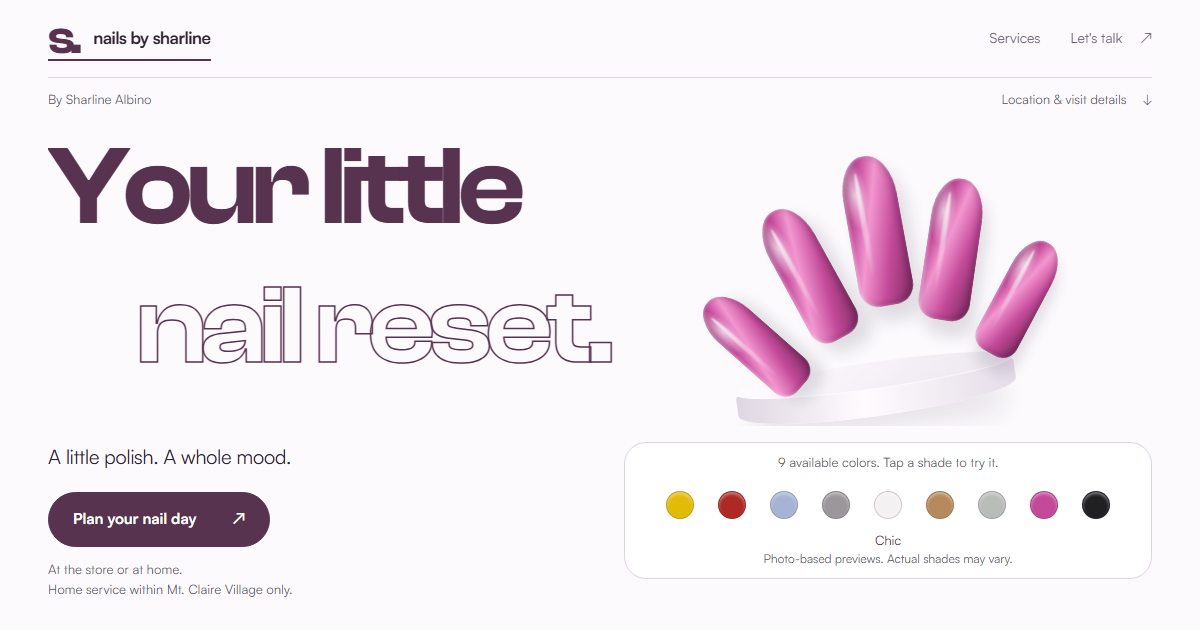
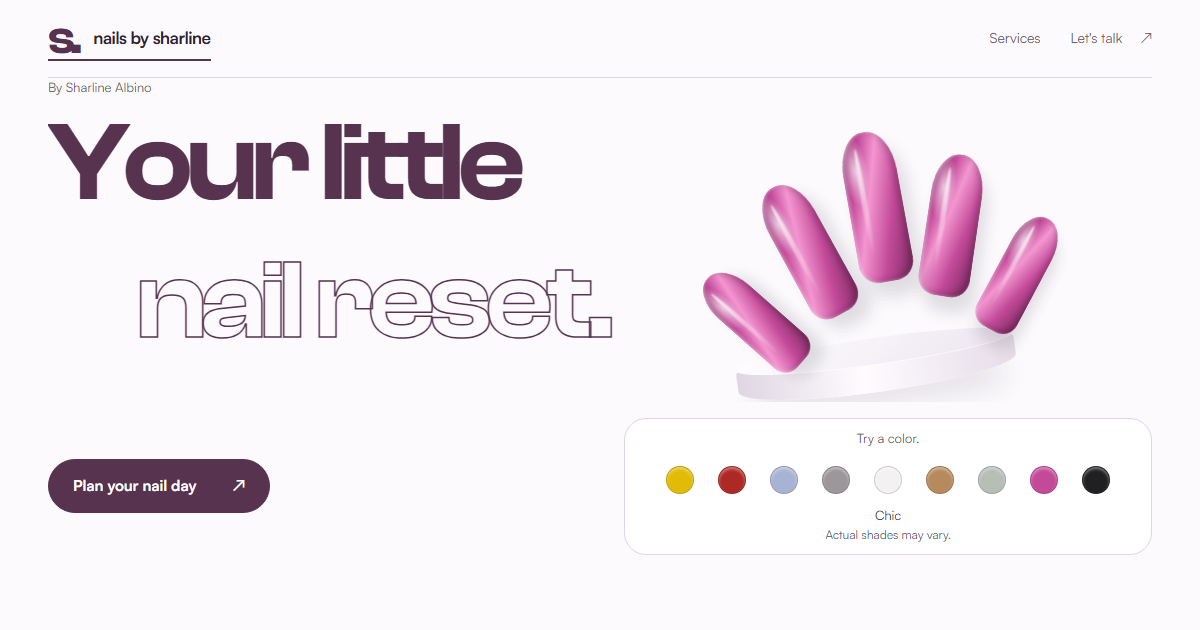
Simplify website and A4 poster with minimal branded content

diff --git a/index.html b/index.html
@@ -10,8 +10,8 @@
   <meta property="og:type" content="website">
   <meta property="og:site_name" content="Nails by Sharline">
   <meta property="og:url" content="https://nails-by-sharline.vercel.app/">
-  <meta property="og:image" content="https://nails-by-sharline.vercel.app/assets/hero-preview-6a72a41951.png">
-  <meta property="og:image:secure_url" content="https://nails-by-sharline.vercel.app/assets/hero-preview-6a72a41951.png">
+  <meta property="og:image" content="https://nails-by-sharline.vercel.app/assets/hero-preview-027e0a691b.png">
+  <meta property="og:image:secure_url" content="https://nails-by-sharline.vercel.app/assets/hero-preview-027e0a691b.png">
   <meta property="og:image:type" content="image/png">
   <meta property="og:image:width" content="1200">
   <meta property="og:image:height" content="630">
@@ -19,7 +19,7 @@
   <meta name="twitter:card" content="summary_large_image">
   <meta name="twitter:title" content="Nails by Sharline | Your little nail reset.">
   <meta name="twitter:description" content="Nail services at Generoso Sari-Sari Store, Phase 2, Mt. Claire Village. Home service within Mt. Claire Village only.">
-  <meta name="twitter:image" content="https://nails-by-sharline.vercel.app/assets/hero-preview-6a72a41951.png">
+  <meta name="twitter:image" content="https://nails-by-sharline.vercel.app/assets/hero-preview-027e0a691b.png">
   <link rel="canonical" href="https://nails-by-sharline.vercel.app/">
   <title>Nails by Sharline | Nail services</title>
   <link rel="icon" href="./favicon.svg" type="image/svg+xml">
@@ -35,7 +35,7 @@
   </header>
   <main id="main">
     <section class="hero wrap" id="home" aria-labelledby="hero-title">
-      <div class="hero-top"><p>By Sharline Albino</p><a href="#contact">Location &amp; visit details <span aria-hidden="true">↓</span></a></div>
+      <div class="hero-top"><p>By Sharline Albino</p></div>
       <div class="hero-composition">
         <h1 id="hero-title"><span>Your little</span><span class="outline-title">nail reset.</span></h1>
         <div class="sculpture hero-colors settled" aria-hidden="true">
@@ -46,9 +46,9 @@
 
       </div>
       <div class="hero-bottom">
-        <div class="hero-copy"><p class="lead">A little polish. A whole mood.</p><a class="button" href="#contact">Plan your nail day <span aria-hidden="true">↗</span></a><p class="home-note">At the store or at home.<br>Home service within Mt. Claire Village only.</p></div>
+        <div class="hero-copy"><a class="button" href="#contact">Plan your nail day <span aria-hidden="true">↗</span></a></div>
         <div class="studio">        <div class="hero-palette" id="colors">
-          <p class="palette-intro">9 available colors. Tap a shade to try it.</p>
+          <p class="palette-intro">Try a color.</p>
           <div class="hero-swatches" role="group" aria-label="Available nail colors">
             <button type="button" data-color="Banana boat" aria-label="Preview Banana boat" title="Banana boat" aria-pressed="false"><span aria-hidden="true" class="color-dot"></span></button>
             <button type="button" data-color="Lucky red" aria-label="Preview Lucky red" title="Lucky red" aria-pressed="false"><span aria-hidden="true" class="color-dot"></span></button>
@@ -66,12 +66,12 @@
           <span id="hero-color-name">Chic</span>
           <button id="color-playback" type="button" aria-label="Pause automatic color preview">Pause colors</button>
         </div>
-        <p class="hero-shade-note">Photo-based previews. Actual shades may vary.</p>
+        <p class="hero-shade-note">Actual shades may vary.</p>
 </div>
       </div>
     </section>
     <section class="services wrap" id="services" aria-labelledby="services-title">
-      <div class="section-heading"><h2 id="services-title">Little details.<br>Lovely days.</h2><p>Pick your nail-day ritual.<br>Simple services, clear prices.</p></div>
+      <div class="section-heading"><h2 id="services-title">Services</h2></div>
       <div class="service-list">
         <a class="service" href="#contact" data-service="Manicure"><span class="service-symbol" aria-hidden="true">✧</span><div><h3>Manicure</h3></div><span class="price">₱100</span><span class="service-arrow" aria-hidden="true">↗</span></a>
         <a class="service" href="#contact" data-service="Pedicure"><span class="service-symbol" aria-hidden="true">◡</span><div><h3>Pedicure</h3></div><span class="price">₱100</span><span class="service-arrow" aria-hidden="true">↗</span></a>
@@ -82,11 +82,11 @@
 
     </section>
     <section class="contact wrap" id="contact" aria-labelledby="contact-title">
-      <div class="contact-copy"><p class="contact-intro">Your next little reset</p><h2 id="contact-title">Let’s make it<br>a nail day.</h2><p>Visit Sharline at <strong>Generoso Sari-Sari Store</strong>,<br>Phase 2, Mt. Claire Village.</p><p><strong>Prefer to stay home?</strong><br>Home service within Mt. Claire Village only.</p><a class="facebook-contact" href="https://www.facebook.com/sharlinemae.albino.71" target="_blank" rel="noopener noreferrer">Sharline Albino (Camille) on Facebook <span aria-hidden="true">↗</span></a><p class="preferred-contact">Facebook is the preferred way to reach Sharline.</p></div>
-      <div class="booking"><h3>Plan your nail day</h3><label for="service-select">Service</label><select id="service-select"><option value="Manicure">Manicure · ₱100</option><option value="Pedicure">Pedicure · ₱100</option><option value="Foot Spa">Foot spa · ₱250</option><option value="Foot Spa + Pedicure">Foot spa + pedicure · ₱300</option><option value="Manicure + Pedicure + Foot Spa">All three · ₱400</option></select><p class="booking-note">All three includes manicure, pedicure, and foot spa.</p><select id="color-select" hidden aria-hidden="true" tabindex="-1"><option value="">Help me choose</option><option>Banana boat</option><option>Lucky red</option><option>Blue suede</option><option>Ashley</option><option>White satin</option><option>Touch of tan</option><option>Almond</option><option>Chic</option><option>Pure black</option></select><fieldset class="booking-colors"><legend>Color preference</legend><div class="booking-shades"><label class="shade-choice help-choice"><input type="radio" name="color-preference" value="" checked><span class="choice-face"><span>Help me choose</span></span></label><label class="shade-choice"><input type="radio" name="color-preference" value="Banana boat" data-color-choice="Banana boat"><span class="choice-face"><span class="color-dot" aria-hidden="true"></span><span>Banana boat</span></span></label><label class="shade-choice"><input type="radio" name="color-preference" value="Lucky red" data-color-choice="Lucky red"><span class="choice-face"><span class="color-dot" aria-hidden="true"></span><span>Lucky red</span></span></label><label class="shade-choice"><input type="radio" name="color-preference" value="Blue suede" data-color-choice="Blue suede"><span class="choice-face"><span class="color-dot" aria-hidden="true"></span><span>Blue suede</span></span></label><label class="shade-choice"><input type="radio" name="color-preference" value="Ashley" data-color-choice="Ashley"><span class="choice-face"><span class="color-dot" aria-hidden="true"></span><span>Ashley</span></span></label><label class="shade-choice"><input type="radio" name="color-preference" value="White satin" data-color-choice="White satin"><span class="choice-face"><span class="color-dot" aria-hidden="true"></span><span>White satin</span></span></label><label class="shade-choice"><input type="radio" name="color-preference" value="Touch of tan" data-color-choice="Touch of tan"><span class="choice-face"><span class="color-dot" aria-hidden="true"></span><span>Touch of tan</span></span></label><label class="shade-choice"><input type="radio" name="color-preference" value="Almond" data-color-choice="Almond"><span class="choice-face"><span class="color-dot" aria-hidden="true"></span><span>Almond</span></span></label><label class="shade-choice"><input type="radio" name="color-preference" value="Chic" data-color-choice="Chic"><span class="choice-face"><span class="color-dot" aria-hidden="true"></span><span>Chic</span></span></label><label class="shade-choice"><input type="radio" name="color-preference" value="Pure black" data-color-choice="Pure black"><span class="choice-face"><span class="color-dot" aria-hidden="true"></span><span>Pure black</span></span></label></div></fieldset><label class="visit-label" for="visit-select">Visit preference</label><select id="visit-select" aria-describedby="home-area"><option value="store">At Generoso Sari-Sari Store</option><option value="home">Home service in Mt. Claire Village</option></select><p class="booking-note" id="home-area">Home service is limited to Mt. Claire Village.</p><details class="inquiry-preview"><summary>Preview your inquiry</summary><p class="message-preview" id="message-preview"></p></details><button class="copy-inquiry" id="copy-inquiry" type="button">Copy inquiry</button><p class="copy-status" id="inquiry-status" role="status"></p><a class="button" id="facebook-link" href="https://www.facebook.com/sharlinemae.albino.71" target="_blank" rel="noopener noreferrer">Message on Facebook <span aria-hidden="true">↗</span></a><p class="booking-note">Copy your inquiry, then paste it after tapping Message on Sharline’s profile.</p><details class="backup-contact"><summary>Text or call instead</summary><a id="text-link" href="sms:+639635091844">Send inquiry by text</a><a href="tel:+639635091844">Call +63 963 509 1844</a><button class="copy-number" id="copy-number" type="button">Copy phone number</button><p class="copy-status" id="copy-status" role="status"></p></details></div>
+      <div class="contact-copy"><h2 id="contact-title">Message on<br>Facebook.</h2><a class="facebook-contact" href="https://www.facebook.com/sharlinemae.albino.71" target="_blank" rel="noopener noreferrer">Sharline Albino (Camille) <span aria-hidden="true">↗</span></a><p><strong>Generoso Sari-Sari Store</strong><br>Phase 2, Mt. Claire Village</p><p id="home-area">Home service within Mt. Claire Village only.</p></div>
+      <div class="booking"><h3>Your inquiry</h3><label for="service-select">Service</label><select id="service-select"><option value="Manicure">Manicure · ₱100</option><option value="Pedicure">Pedicure · ₱100</option><option value="Foot Spa">Foot spa · ₱250</option><option value="Foot Spa + Pedicure">Foot spa + pedicure · ₱300</option><option value="Manicure + Pedicure + Foot Spa">All three · ₱400</option></select><select id="color-select" hidden aria-hidden="true" tabindex="-1"><option value="">Help me choose</option><option>Banana boat</option><option>Lucky red</option><option>Blue suede</option><option>Ashley</option><option>White satin</option><option>Touch of tan</option><option>Almond</option><option>Chic</option><option>Pure black</option></select><details class="color-options"><summary id="color-choice-summary">Color: Help me choose</summary><fieldset class="booking-colors"><legend>Color preference</legend><div class="booking-shades"><label class="shade-choice help-choice"><input type="radio" name="color-preference" value="" checked><span class="choice-face"><span>Help me choose</span></span></label><label class="shade-choice"><input type="radio" name="color-preference" value="Banana boat" data-color-choice="Banana boat"><span class="choice-face"><span class="color-dot" aria-hidden="true"></span><span>Banana boat</span></span></label><label class="shade-choice"><input type="radio" name="color-preference" value="Lucky red" data-color-choice="Lucky red"><span class="choice-face"><span class="color-dot" aria-hidden="true"></span><span>Lucky red</span></span></label><label class="shade-choice"><input type="radio" name="color-preference" value="Blue suede" data-color-choice="Blue suede"><span class="choice-face"><span class="color-dot" aria-hidden="true"></span><span>Blue suede</span></span></label><label class="shade-choice"><input type="radio" name="color-preference" value="Ashley" data-color-choice="Ashley"><span class="choice-face"><span class="color-dot" aria-hidden="true"></span><span>Ashley</span></span></label><label class="shade-choice"><input type="radio" name="color-preference" value="White satin" data-color-choice="White satin"><span class="choice-face"><span class="color-dot" aria-hidden="true"></span><span>White satin</span></span></label><label class="shade-choice"><input type="radio" name="color-preference" value="Touch of tan" data-color-choice="Touch of tan"><span class="choice-face"><span class="color-dot" aria-hidden="true"></span><span>Touch of tan</span></span></label><label class="shade-choice"><input type="radio" name="color-preference" value="Almond" data-color-choice="Almond"><span class="choice-face"><span class="color-dot" aria-hidden="true"></span><span>Almond</span></span></label><label class="shade-choice"><input type="radio" name="color-preference" value="Chic" data-color-choice="Chic"><span class="choice-face"><span class="color-dot" aria-hidden="true"></span><span>Chic</span></span></label><label class="shade-choice"><input type="radio" name="color-preference" value="Pure black" data-color-choice="Pure black"><span class="choice-face"><span class="color-dot" aria-hidden="true"></span><span>Pure black</span></span></label></div></fieldset></details><label class="visit-label" for="visit-select">Visit preference</label><select id="visit-select" aria-describedby="home-area"><option value="store">At Generoso Sari-Sari Store</option><option value="home">Home service in Mt. Claire Village</option></select><details class="inquiry-preview"><summary>Preview your inquiry</summary><p class="message-preview" id="message-preview"></p></details><button class="copy-inquiry" id="copy-inquiry" type="button">Copy inquiry</button><p class="copy-status" id="inquiry-status" role="status"></p><a class="button" id="facebook-link" href="https://www.facebook.com/sharlinemae.albino.71" target="_blank" rel="noopener noreferrer">Message on Facebook <span aria-hidden="true">↗</span></a><p class="booking-note">Copy your inquiry, then paste it in Messenger.</p><details class="backup-contact"><summary>Text or call instead</summary><a id="text-link" href="sms:+639635091844">Send inquiry by text</a><a href="tel:+639635091844">Call +63 963 509 1844</a><button class="copy-number" id="copy-number" type="button">Copy phone number</button><p class="copy-status" id="copy-status" role="status"></p></details></div>
     </section>
   </main>
-  <footer class="footer wrap"><a class="brand" href="#"><span class="brand-mark" aria-hidden="true">s.</span><span>nails by sharline</span></a><p>Little details. Lovely days.</p><a href="https://www.facebook.com/sharlinemae.albino.71" target="_blank" rel="noopener noreferrer">Sharline on Facebook <span aria-hidden="true">↗</span></a></footer>
+
 </body>
 </html>
 

diff --git a/style.css b/style.css
@@ -79,3 +79,17 @@ html{scroll-padding-top:var(--header-offset)}
  .hero-colors .pedestal{left:50%;width:205px;height:46px;bottom:0}
 }
 @media(max-width:380px){.hero-composition{height:335px}.sculpture{top:125px;height:198px}.hero-colors .nail-fan{transform:translateX(-50%) rotateX(8deg) rotate(-10deg) scale(.46)}}
+
+/* Quiet copy, compact sections, and optional color choices. */
+.hero-copy{align-self:center}
+.services{padding:48px 0 56px;gap:48px;grid-template-columns:1fr 2fr}
+.section-heading h2{font-size:38px}
+.contact-copy h2{margin:0 0 16px;font-size:clamp(36px,4vw,52px)}
+.facebook-contact{margin-top:0}
+.color-options{margin-top:18px;border-bottom:1px solid var(--line)}
+.color-options summary{font-size:14px;color:var(--ink)}
+.color-options .booking-colors{margin:8px 0 16px}
+.color-options legend{position:absolute;width:1px;height:1px;overflow:hidden;clip-path:inset(50%)}
+.contact{margin-bottom:32px}
+@media(max-width:800px){.services{grid-template-columns:1fr;gap:20px}.contact{gap:26px}.contact-copy h2{font-size:42px}}
+@media(max-width:600px){.hero-copy{text-align:center}.hero{padding-bottom:32px}.services{padding:32px 0 40px}.section-heading h2{font-size:32px}.contact-copy h2{font-size:36px}.contact-copy>p:not(.contact-intro){margin-top:14px}}

diff --git a/script.js b/script.js
@@ -125,6 +125,7 @@ function syncColorButtons() {
   document.querySelectorAll('[name="color-preference"]').forEach(input => {
     input.checked = input.value === color.value;
   });
+  document.querySelector("#color-choice-summary").textContent = `Color: ${color.value || "Help me choose"}`;
   updateColorPreview(color.value);
   chooseHeroColor(color.value);
   document.querySelectorAll('[data-color]').forEach(button => button.setAttribute('aria-pressed', String(button.dataset.color === color.value)));

diff --git a/scripts/export-poster.py b/scripts/export-poster.py
@@ -1,0 +1,96 @@
+from pathlib import Path
+from reportlab.pdfgen import canvas
+from reportlab.lib.pagesizes import A4
+from reportlab.lib.colors import HexColor
+from reportlab.pdfbase import pdfmetrics
+from reportlab.pdfbase.ttfonts import TTFont
+from reportlab.graphics.barcode.qr import QrCodeWidget
+from PIL import Image, ImageDraw
+from pypdf import PdfReader
+import pypdfium2 as pdfium
+import zxingcpp
+
+root=Path(__file__).resolve().parents[1]; out=root/'output/pdf'; tmp=root/'tmp/pdfs'; out.mkdir(parents=True,exist_ok=True); tmp.mkdir(parents=True,exist_ok=True)
+url='https://nails-by-sharline.vercel.app/'
+pdfmetrics.registerFont(TTFont('Segoe','C:/Windows/Fonts/segoeui.ttf'))
+pdfmetrics.registerFont(TTFont('SegoeBold','C:/Windows/Fonts/segoeuib.ttf'))
+pdfmetrics.registerFont(TTFont('SegoeLight','C:/Windows/Fonts/segoeuil.ttf'))
+ink=HexColor('#302333'); plum=HexColor('#57334f'); muted=HexColor('#6b5f70'); line=HexColor('#ddd5e0')
+q=QrCodeWidget(url,barLevel='M'); q.qr.make(); modules=q.qr.modules; n=len(modules); border=4; scale=20
+im=Image.new('RGB',((n+border*2)*scale,)*2,'white'); draw=ImageDraw.Draw(im)
+for row in range(n):
+ for col in range(n):
+  if modules[row][col]:
+   x=(col+border)*scale; y=(row+border)*scale
+   draw.rectangle((x,y,x+scale-1,y+scale-1),fill='black')
+qr_path=out/'sharline-website-qr.png'; im.save(qr_path)
+assert zxingcpp.read_barcode(im).text==url
+
+from fontTools.ttLib import TTFont as FontToolsFont
+for name,file in [('Display','clash-display-600'),('Body','satoshi-400'),('Bold','satoshi-700')]:
+ f=FontToolsFont(root/'assets/fonts'/f'{file}.woff2');f.flavor=None
+ for record in f['name'].names:
+  if record.nameID in [1,4,6]: record.string=('Sharline'+name).encode(record.getEncoding())
+ f.save(tmp/f'{name}.ttf')
+ pdfmetrics.registerFont(TTFont(name,str(tmp/f'{name}.ttf')))
+path=out/'nails-by-sharline-a4-price-poster.pdf'
+c=canvas.Canvas(str(path),pagesize=A4); w,h=A4
+c.setTitle('Nails by Sharline - A4 Price Poster'); c.setAuthor('Nails by Sharline')
+def text(x,y,s,size=12,font='Body',color=ink):
+ c.setFillColor(color);c.setFont(font,size);c.drawString(x,y,s)
+def right(x,y,s,size=12,font='Body',color=ink):
+ c.setFillColor(color);c.setFont(font,size);c.drawRightString(x,y,s)
+def rule(y):
+ c.setStrokeColor(line);c.setLineWidth(.6);c.line(36,y,w-36,y)
+# White paper keeps the poster economical to print; plum and lavender carry the brand.
+text(36,796,'s.',33,'Display',plum);text(77,800,'nails by sharline',12,'Bold',plum)
+rule(781)
+art=Image.open(root/'assets/poster-nails.png');art_width=244;art_height=art_width*art.height/art.width
+c.drawImage(str(root/'assets/poster-nails.png'),315,619,width=art_width,height=art_height,mask='auto')
+text(36,718,'Your little',48,'Display',plum)
+c.saveState();t=c.beginText(60,664);t.setFont('Display',46);t.setTextRenderMode(1);c.setStrokeColor(plum);c.setLineWidth(.65);t.textOut('nail reset.');t.setTextRenderMode(0);c.drawText(t);c.restoreState()
+
+rule(602)
+
+rows=[('Manicure','₱100'),('Pedicure','₱100'),('Foot spa','₱250'),('Foot spa + pedicure','₱300'),('All three','₱400')]
+for i,(label,price) in enumerate(rows):
+ y=562-i*50
+ text(36,y,label,22,'Body');right(w-36,y,price,25,'SegoeBold',plum);rule(y-16)
+text(36,331,'All three: manicure + pedicure + foot spa.',10,color=muted)
+text(36,292,'Available colors',11,'Bold',plum)
+swatches=['#e2bb06','#ad2924','#a7b3d4','#9c979b','#f4f1f3','#b68a5d','#b8bdb8','#c34a99','#202023']
+for i,shade in enumerate(swatches):
+ x=48+i*(w-96)/8
+ c.setFillColor(HexColor(shade));c.setStrokeColor(line);c.setLineWidth(.65);c.circle(x,265,11,fill=1,stroke=1)
+ c.saveState();c.setFillAlpha(.28);c.setFillColor(HexColor('#ffffff'));c.circle(x-3,269,3,fill=1,stroke=0);c.restoreState()
+text(36,242,'Actual shades may vary.',7.5,color=muted)
+c.setFillColor(HexColor('#eee8f1'));c.roundRect(28,44,w-56,162,18,fill=1,stroke=0)
+text(46,184,'Message on Facebook',12,'Bold',plum)
+text(46,162,'Sharline Albino (Camille)',17,'Display',plum)
+
+c.linkURL('https://www.facebook.com/sharlinemae.albino.71',(46,140,316,178),relative=0)
+text(46,125,'Generoso Sari-Sari Store',10,'Bold')
+text(46,111,'Phase 2, Mt. Claire Village',10)
+text(46,94,'Home service within Mt. Claire Village only.',8.5,'Bold',plum)
+
+text(46,59,'nails-by-sharline.vercel.app',12,'Bold',plum)
+c.linkURL(url,(46,53,322,72),relative=0)
+qr_x=w-151;qr_y=87;qr_size=104
+c.drawImage(str(qr_path),qr_x,qr_y,width=qr_size,height=qr_size)
+c.setFont('Body',8);c.setFillColor(muted);c.drawCentredString(qr_x+qr_size/2,75,'Scan to view')
+
+c.linkURL(url,(qr_x,qr_y,qr_x+qr_size,qr_y+qr_size),relative=0)
+
+c.showPage();c.save()
+r=PdfReader(str(path));assert len(r.pages)==1
+assert abs(float(r.pages[0].mediabox.width)-595.276)<.1
+assert abs(float(r.pages[0].mediabox.height)-841.89)<.1
+extracted=r.pages[0].extract_text()
+for term in ['₱100','₱250','₱300','₱400','manicure + pedicure + foot spa','Sharline Albino (Camille)','nails-by-sharline.vercel.app','Generoso Sari-Sari Store','Phase 2, Mt. Claire Village','Home service within Mt. Claire Village only.']:
+ assert term in extracted,term
+assert 'gel polish' not in extracted.lower()
+assert '₱200' not in extracted
+pdf=pdfium.PdfDocument(str(path));preview=pdf[0].render(scale=300/72).to_pil();preview.save(out/'nails-by-sharline-a4-price-poster.png',dpi=(300,300));pdf[0].render(scale=1.5).to_pil().save(out/'nails-by-sharline-a4-preview.png')
+assert any(x.text==url for x in zxingcpp.read_barcodes(preview)),'Rendered poster QR failed'
+assert any(x.text==url for x in zxingcpp.read_barcodes(preview.resize((1240,1754)))),'Half-size QR failed'
+print('PASS: single A4 page, all prices/contact/location verified, standalone and rendered QR decoded at full and half size. PDF and 300dpi PNG saved.')

diff --git a/DESIGN.md b/DESIGN.md
@@ -17,3 +17,7 @@ Color cycling: 3-second cycle, 1.2-second opacity crossfade; pause/play, manual 
 Navigation: persistent light header with Services and Let’s talk; active section underline and aria-current on the home logo or section link. Header height sets anchor clearance. Passive scroll updates batch into one animation frame only while scrolling.
 
 Hero refinement: live desktop now uses the compact thumbnail composition, with smaller nails and tighter type spacing. Mobile places the headline above the sculpture. Thumbnail capture uses production hero styling without alternate layout overrides.
+
+
+## Minimal content pass
+One hero headline, interactive shade preview, five priced services, and a Facebook inquiry. Location and home service details appear once in the contact section. Optional shade choices and phone contact expand on demand. The A4 poster prioritizes prices, color circles, Facebook name, location and website QR.
